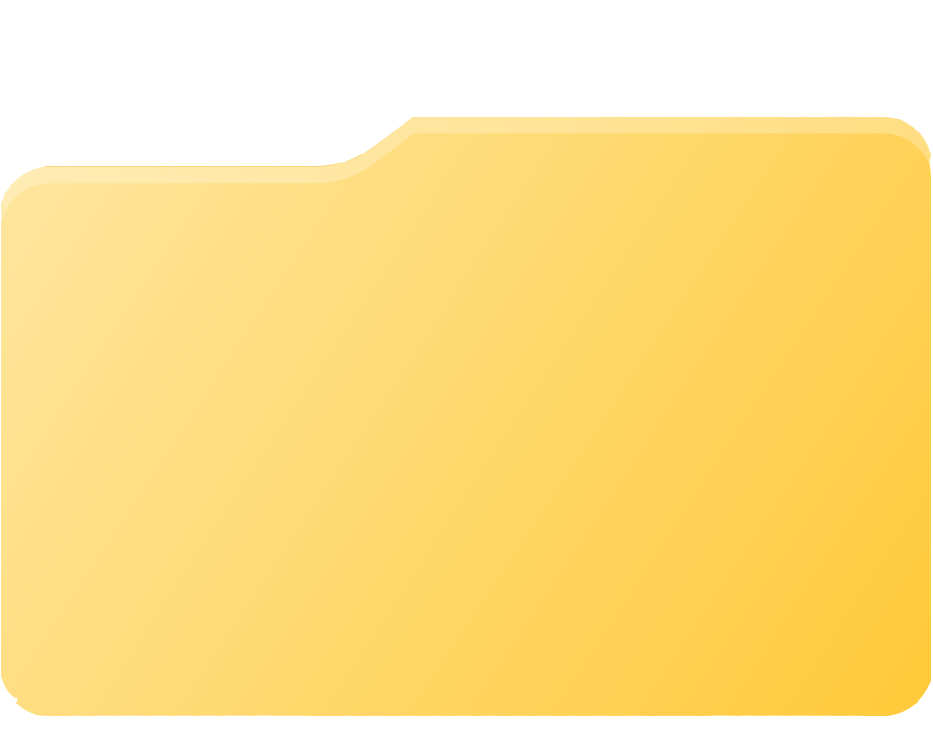
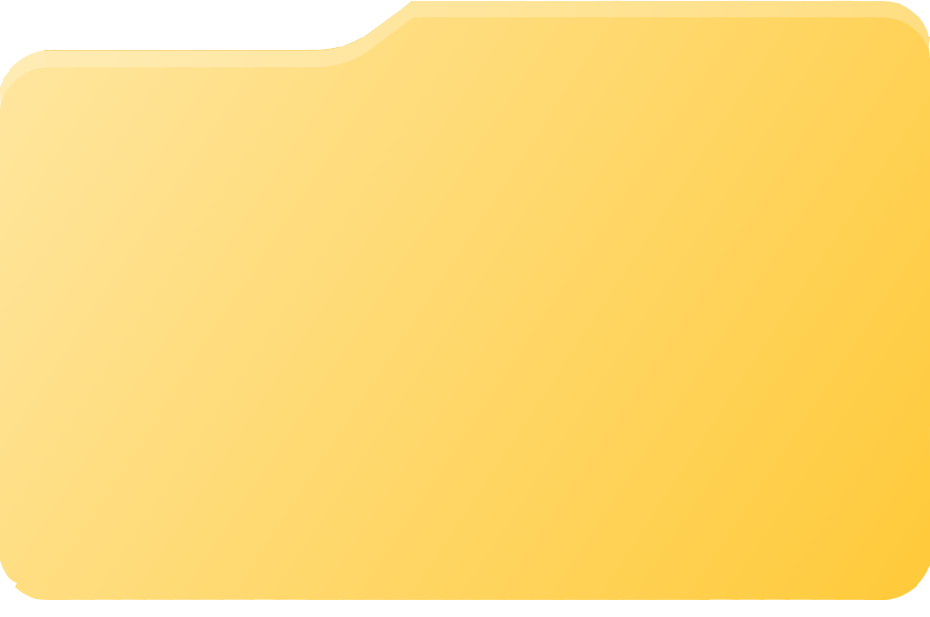
fix: adjust image margins and formatting in Windows 11 PosterIcon layout

Changed region(s): [[0.0, 0.0, 1.0, 0.9238], [0.0312, 0.9238, 0.9978, 0.9854], [0.0, 0.9238, 0.0312, 0.9546]]

diff --git a/FoliCon/Views/PosterIconWindows11.xaml b/FoliCon/Views/PosterIconWindows11.xaml
@@ -1,21 +1,23 @@
 <data:PosterIconBase x:Class="FoliCon.Views.PosterIconWindows11"
-             xmlns="http://schemas.microsoft.com/winfx/2006/xaml/presentation"
-             xmlns:x="http://schemas.microsoft.com/winfx/2006/xaml"
-             xmlns:prism="http://prismlibrary.com/"
-             xmlns:mc="http://schemas.openxmlformats.org/markup-compatibility/2006"
-             mc:Ignorable="d"
-             xmlns:d="http://schemas.microsoft.com/expression/blend/2008"
-             xmlns:data="clr-namespace:FoliCon.Models.Data"
-             prism:ViewModelLocator.AutoWireViewModel="False"  Width="265" Height="256"
-             d:DataContext="{d:DesignInstance Type=data:PosterIcon, IsDesignTimeCreatable=True}">
+                     xmlns="http://schemas.microsoft.com/winfx/2006/xaml/presentation"
+                     xmlns:x="http://schemas.microsoft.com/winfx/2006/xaml"
+                     xmlns:prism="http://prismlibrary.com/"
+                     xmlns:mc="http://schemas.openxmlformats.org/markup-compatibility/2006"
+                     mc:Ignorable="d"
+                     xmlns:d="http://schemas.microsoft.com/expression/blend/2008"
+                     xmlns:data="clr-namespace:FoliCon.Models.Data"
+                     prism:ViewModelLocator.AutoWireViewModel="False" Width="265" Height="256"
+                     d:DataContext="{d:DesignInstance Type=data:PosterIcon, IsDesignTimeCreatable=True}">
     <Grid Margin="0,0,0,-11">
-        <Image Source="/Resources/poster_mockups/win11/base.png" RenderOptions.BitmapScalingMode="HighQuality"  Margin="5,0,5,10" Visibility="{Binding MockupVisibility}"/>
-        <Image Source="{Binding FolderJpg}" Stretch="Fill" Margin="5,21,3,10" Visibility="{Binding MockupVisibility}">
+        <Image Source="/Resources/poster_mockups/win11/base.png" RenderOptions.BitmapScalingMode="HighQuality"
+               Margin="5,0,5,10" Visibility="{Binding MockupVisibility}" />
+
+        <Image Source="{Binding FolderJpg}" Stretch="Fill" Margin="5,21,3,32" Visibility="{Binding MockupVisibility}">
             <Image.OpacityMask>
-                <ImageBrush ImageSource="/Resources/poster_mockups/win11/front.png" Stretch="Fill"/>
+                <ImageBrush ImageSource="/Resources/poster_mockups/win11/front.png" Stretch="Fill" />
             </Image.OpacityMask>
         </Image>
-        
+
         <!-- Rating badge -->
         <Grid Grid.Row="0">
             <Grid.RowDefinitions>
@@ -23,12 +25,14 @@
                 <RowDefinition Height="100" />
                 <RowDefinition Height="100" />
             </Grid.RowDefinitions>
-            <Image x:Name="Shield" Source="/Resources/rating_mockup/shield.png" RenderOptions.BitmapScalingMode="HighQuality"
-                   Margin="183,97,-17,5" Panel.ZIndex="2" Visibility="{Binding RatingVisibility}" Grid.Row="1" Grid.RowSpan="2" />
+            <Image x:Name="Shield" Source="/Resources/rating_mockup/shield.png"
+                   RenderOptions.BitmapScalingMode="HighQuality"
+                   Margin="183,97,-17,5" Panel.ZIndex="2" Visibility="{Binding RatingVisibility}" Grid.Row="1"
+                   Grid.RowSpan="2" />
             <TextBlock x:Name="Ratingtext" Text="{Binding Rating}" HorizontalAlignment="Left"
                        VerticalAlignment="Top" FontFamily="Castellar" FontStyle="Italic"
                        Visibility="{Binding RatingVisibility}" FontSize="25" Margin="209,30,0,0" Panel.ZIndex="3"
-                       Grid.Row="2" Width="55" Height="46" Foreground="Black"/>
+                       Grid.Row="2" Width="55" Height="46" Foreground="Black" />
         </Grid>
     </Grid>
 </data:PosterIconBase>
